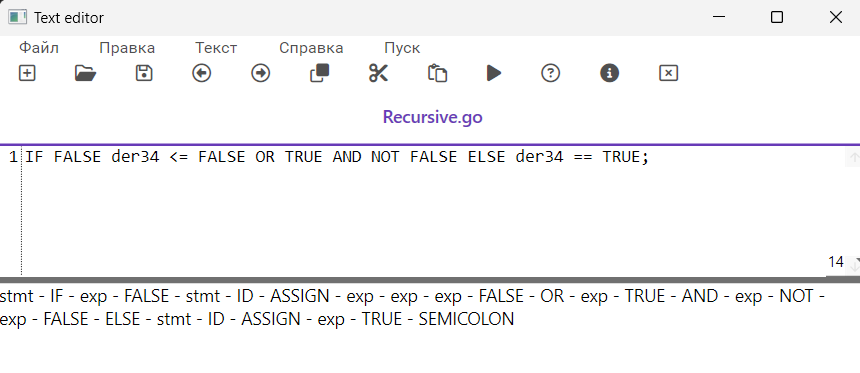
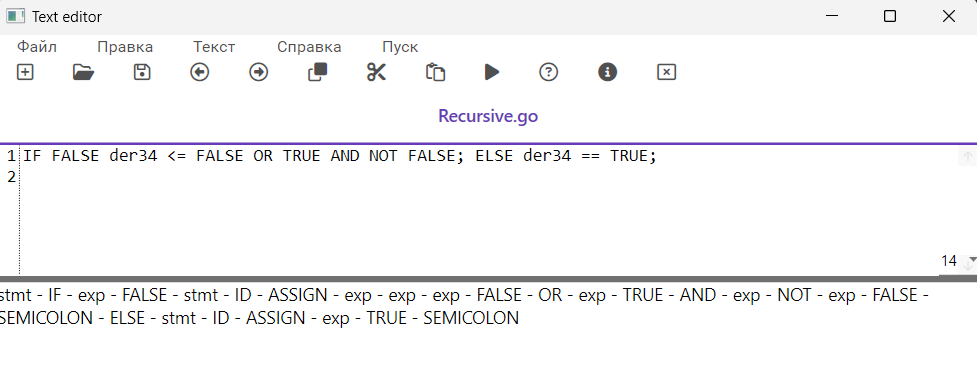
readme update

diff --git a/README.md b/README.md
@@ -15,7 +15,7 @@ ASSIGN – ”==” | ”<” | ”<=” | ”>” | ”>=” | ”!=”
 
 ## Язык
 
-L(G[stmt]) = { (IF epx)<sup>n</sup> ID ASSIGN exp (ELSE (IF epx | ELSE)<sup>k</sup> ID ASSIGN exp)<sup>m</sup>, n >= 0, k >= 0, m >= 0 }
+L(G[stmt]) = { (IF (TRUE | FALSE | NOT (TRUE | FALSE)) ((OR|AND) (TRUE | FALSE | NOT (TRUE | FALSE))<sup>q</sup>)<sup>n</sup> ID ASSIGN (TRUE | FALSE | NOT (TRUE | FALSE)) ((OR|AND) (TRUE | FALSE | NOT (TRUE | FALSE))<sup>w</sup> SEMICOLON (ELSE (IF (TRUE | FALSE | NOT (TRUE | FALSE)) ((OR|AND) (TRUE | FALSE | NOT (TRUE | FALSE))<sup>e</sup> | ELSE)<sup>k</sup> ID ASSIGN (TRUE | FALSE | NOT (TRUE | FALSE)) ((OR|AND) (TRUE | FALSE | NOT (TRUE | FALSE))<sup>r</sup> SEMICOLON)<sup>m</sup>, n >= 0, k >= 0, m >= 0, q >= 0, w >= 0, e >= 0, r >= 0 }
 
 ## Классификация грамматики 
 
